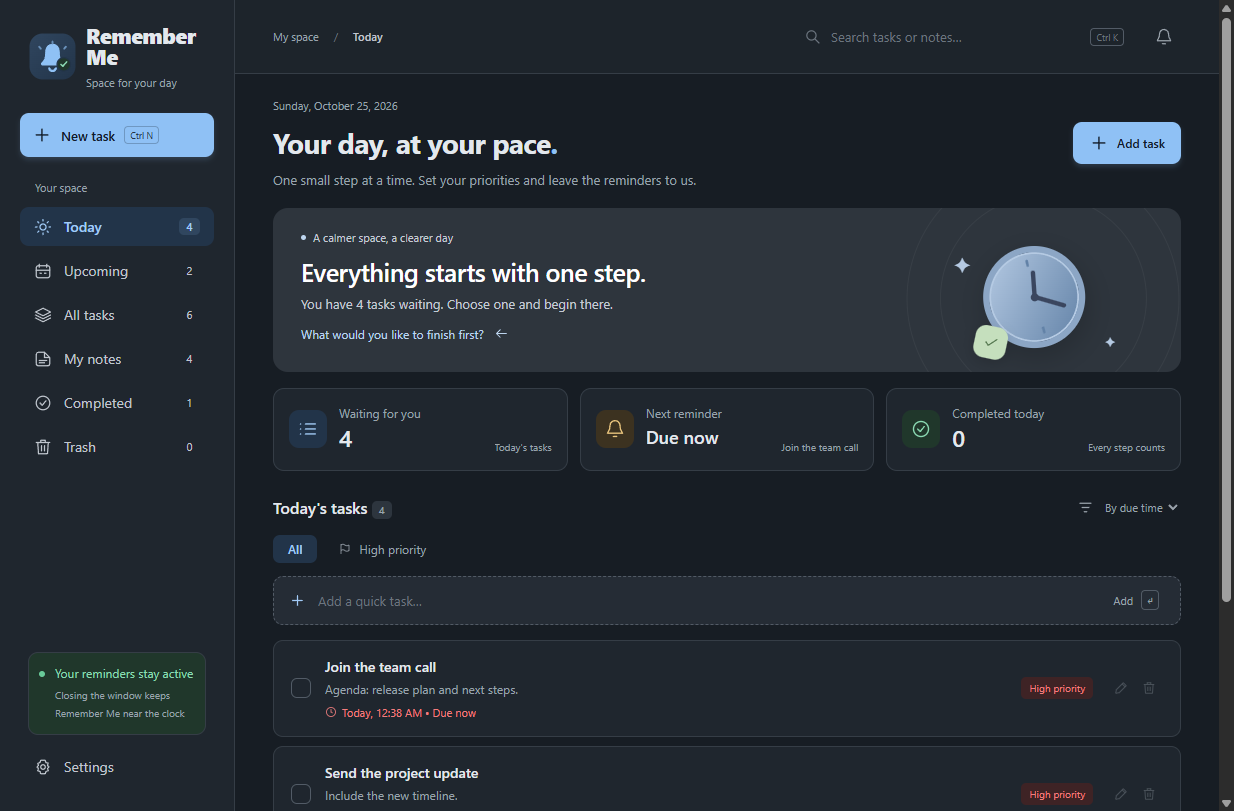
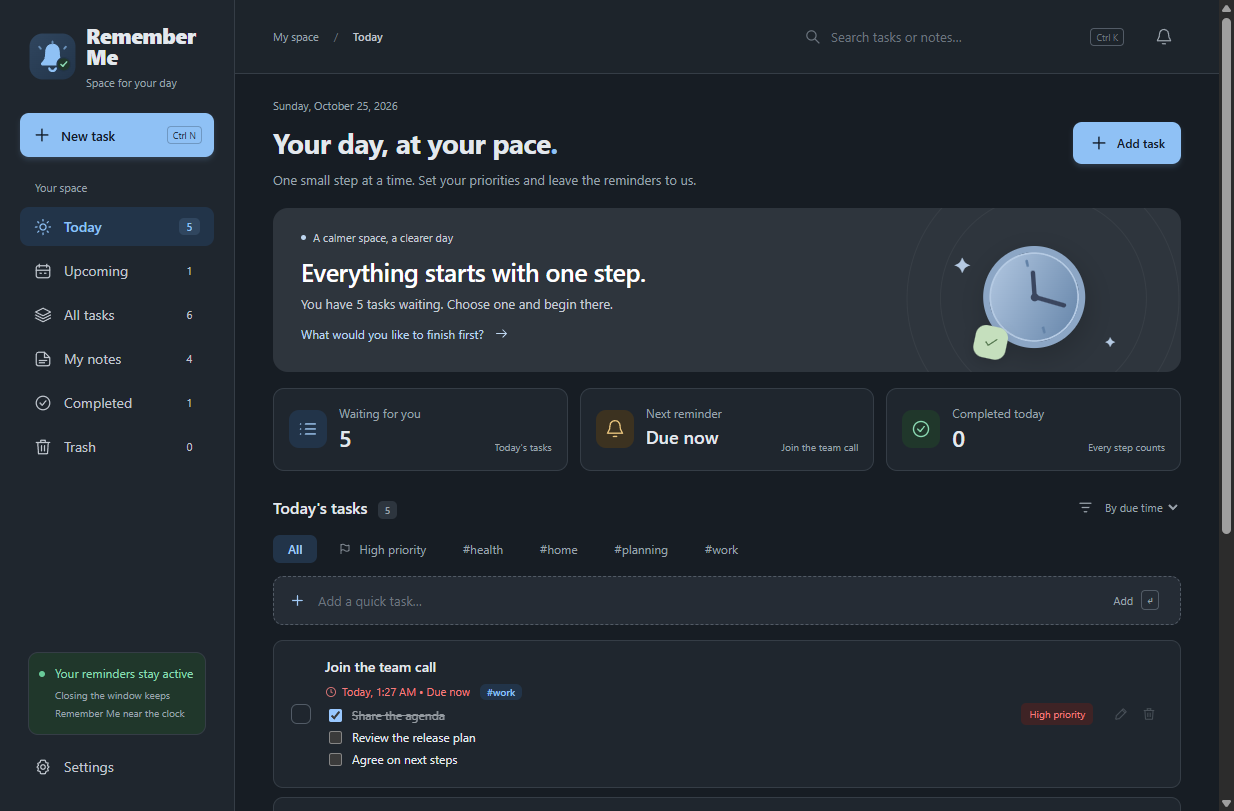
Finish the v1.5.0 release docs for QC round 2 (R39-R43)
- CHANGELOG: tags with tag filters, sorting by title and checklists
  (#36); the English default for new installs under Changed; the
  refactor (#37, #38), the release QA suite (#39) and the screenshots
  script under For contributors; links for #37-#39. No TODO lines are
  left; the 'Before release' note now only asks for the date.
- README: tags, sorting and checklists in Features and Usage; the
  early-notices, structure and handlers tests; the Verify the download
  example names the 1.5.0 installer and refs/tags/v1.5.0.
- RELEASING: update the attestation --source-ref too, and replace the
  generated release notes with docs/release-notes/v1.5.0.md.
- docs/release-notes/v1.5.0.md: highlights, install and verify notes,
  then the full entry and the code signing policy link.
- winget Description and package.json description: 12 languages.
- Issue templates: Remember Me, and 1.5.0 as the version placeholder.
- Screenshots retaken with the new alert (a queue of two), tag filters
  and a checklist; the sample data has tags and steps.

diff --git a/docs/release-notes/v1.5.0.md b/docs/release-notes/v1.5.0.md
@@ -1,0 +1,154 @@
+Everything since v1.4.0. Your tasks, notes, attachments and settings from v1.4.0 load unchanged, and the data folder moves from `%APPDATA%\Waqt` to `%APPDATA%\Remember Me` by itself the first time v1.5.0 starts.
+
+## Highlights
+
+- **A new name:** Waqt is now **Remember Me** (ذكرني in Arabic), and your data comes with it automatically. [#10]
+- **Automatic updates,** only if you allow them, and never a restart you didn't choose. [#10]
+- **More ways to repeat:** chosen weekdays, every few days, monthly and yearly, plus **Skip this time** and **Only this time**. [#7] [#8]
+- **Trash and Undo** for deleted items and for Done. [#7]
+- **Pause reminders** from the notification area. [#16]
+- **Dark mode and six color palettes,** plus notes as sticky notes, lined paper or cards in ten paper colors. [#7] [#35]
+- **Verified backups** with restore from Settings. [#5]
+- **12 interface languages,** with English as the new default and a full right-to-left layout in Arabic. [#36]
+- **A redesigned alert:** one reminder at a time with its status at a glance, smart snooze choices on the 1–6 keys, **Snooze all** and **Open task**. [#36]
+- **Tags and checklists:** tag tasks and filter the list by tag, sort it by title, and break a task into steps you tick off. [#36]
+
+## Installing
+
+v1.4.0 has no updater, so download `Remember-Me-Setup-1.5.0-x64.exe` below and install it by hand once. Your tasks, notes and settings stay as they are. From then on, Remember Me can update itself if you allow it.
+
+The installer is not code-signed yet, so Windows SmartScreen may show "Windows protected your PC". Check the download first, then choose **More info → Run anyway**:
+
+```powershell
+Get-FileHash .\Remember-Me-Setup-1.5.0-x64.exe -Algorithm SHA256   # compare with SHA256SUMS.txt
+gh attestation verify .\Remember-Me-Setup-1.5.0-x64.exe --repo sarmadiq9090-coder/Remember-Me --source-ref refs/tags/v1.5.0 --signer-workflow sarmadiq9090-coder/Remember-Me/.github/workflows/release.yml
+```
+
+## Everything in this release
+
+### Added
+
+- Repeats on chosen weekdays (with Sun–Thu and Mon–Fri shortcuts), every N days, monthly and yearly. Repeats on the 31st or on February 29 fall back to the last day of the month without drifting. [#7]
+- **Skip this time** on a repeating task moves it to its next occurrence without marking it done. [#8]
+- **Only this time** in the editor moves one occurrence of a repeating task and keeps the rest of the series. [#8]
+- A Trash view: deleted tasks and notes stay there for 30 days and can be restored. Deleting shows an **Undo** button, and only permanent deletes ask for confirmation. [#7]
+- **Undo** after Done, in the main window and in the alert. After the last reminder the alert stays for a few seconds so you can undo. [#7]
+- An optional early notice: a Windows notification from 5 minutes to 1 day before a reminder is due. [#7]
+- **Remind me again:** while an alert is unanswered, its sound repeats every 2, 5 or 15 minutes, up to 6 times. Off by default. [#8]
+- **Pause reminders** from the notification-area menu: for 1 hour, until tomorrow at 8:00, or until you resume. Reminders that come due meanwhile appear when the pause ends. [#16]
+- Appearance setting: Light, Dark or Same as Windows. [#7]
+- First day of the week setting (Saturday, Sunday or Monday), used by the weekday picker. Saturday is the default. [#7] [#9]
+- A warning in Settings, and a one-time banner, when Start with Windows is off but reminders are still to come. [#8]
+- The notification-area icon shows a dot while reminders are waiting. [#8]
+- Automatic updates from GitHub Releases, only after you allow them. Remember Me asks once, then checks about 30 seconds after starting and once a day, downloads in the background and installs when you choose **Restart now** or the next time you quit. It saves a safety copy of your data first. **Settings → Updates** has the switch and **Check now**. [#10]
+- **Restore from backup** in Settings: checks every file, shows what the backup holds, and saves a safety copy of your current data before replacing it. [#5]
+- Backups include a SHA-256 checksum for every file. [#5]
+- Keep only the latest 5, 10 or 30 automatic backups. All are kept by default, and backups you export yourself are never removed. [#5]
+- Settings shows the space attachments and backups use, and can clean up attachments that no task or note uses. [#5]
+- A warning when the Google Drive backup folder has been unavailable for more than a day. [#5]
+- Arabic-aware search that ignores diacritics and tatweel and matches spelling variants such as أ/إ/آ/ا, ة/ه and ى/ي. [#3]
+- **Settings → About** (also **About Remember Me** in the tray menu): the version, the developer, links to the source code, release notes, problem reports, privacy notice and license, **Check for updates**, **Open log folder**, and **Copy diagnostic info** with versions, language and theme only. [#22]
+- A local log in the data folder's `logs` folder, to attach to a problem report. It never records task or note titles, text or file names. [#15]
+- The installer shows the privacy notice and the license, in English or Arabic, and the uninstaller says your data folder is kept. [#14]
+- Release installers come with `SHA256SUMS.txt` and GitHub build provenance, so you can check a download. [#3]
+- The interface in 12 languages: English, العربية, Español, Français, Deutsch, Português (Brasil), Русский, 中文 (简体), 日本語, Türkçe, हिन्दी and Bahasa Indonesia, each listed in its own name. New installs start in English and existing installs keep Arabic. The tray menu, dialogs and error messages follow the chosen language, text missing in a language falls back to English, and the layout mirrors for right-to-left. The translations beyond English and Arabic are machine-assisted and were reviewed by native-level reviewers. [#36]
+- The redesigned alert window [#36]:
+  - chips for how long a reminder is overdue, its priority, its repeat and how many times it was snoozed, with the next occurrence under **Done** for repeating tasks;
+  - **Remind me again** with 10 min, 1 hour, This evening (until 17:00), Tomorrow 9 AM, Next week and **Pick a time…**, on the 1–6 keys; **S** skips a repeat;
+  - a *1 of N* counter with previous and next when several reminders wait, and **Snooze all** for an hour;
+  - **Open task** opens that task's editor in the main window;
+  - a gentle nudge after three snoozes of the same occurrence;
+  - screen-reader support (an alert dialog that announces each reminder) and keyboard use: Enter is Done, the arrows move through the queue, and Escape never dismisses it. Shortcuts act only after you interact with the alert, so typing in another window can't complete or snooze a reminder that just appeared.
+- Tags on tasks: up to ten per task, typed with commas and suggested from the tags you already use. They show on task cards, every tag in use becomes a filter above the list, and search finds them. [#36]
+- Sort tasks by title, besides due time, priority and newest first. [#36]
+- Checklists: up to 50 steps in a task, added in the editor (Enter adds the next one) and ticked straight from the task card. A repeating task starts each occurrence with its steps unticked, and the copy under *Completed* keeps its ticks. [#36]
+- **Settings → Appearance:** six color palettes (Lavender, Ocean, Forest, Sunset, Graphite and High contrast), each in light and dark, picked from preview cards and applied at once to the main window and the alert. [#35]
+- Notes come in ten paper colors, picked from swatches, and three styles: plain card, sticky note or lined paper. The editor shows a live preview. [#35]
+- The logo inside the app follows the chosen palette and light or dark mode (issue #18). [#35]
+
+### Changed
+
+- The app is called Remember Me everywhere: `Remember Me.exe`, the installer, its shortcuts and the Apps & features entry. [#10]
+- Data moves from `%APPDATA%\Waqt` to `%APPDATA%\Remember Me` automatically the first time the app starts. If the folder is locked it is copied and checked instead, and the original is kept as `Waqt.migrated-<date>`. The old data is never deleted. [#10]
+- Start with Windows is pointed at the renamed executable on startup. [#10]
+- New backup folders are named `RememberMe-backup-…` and `RememberMe-before-restore-…`. Backups named `Waqt-…` still restore and rotate. [#10]
+- Dates, times and numbers always use Western digits (0-9), in the Arabic interface too. [#9]
+- New installs start in English. Installs updated from v1.4.0 keep Arabic, and **Settings** switches between all 12 languages. [#36]
+- The alert sits next to the taskbar wherever it is (bottom, top, left or right), on scaled and secondary displays, and moves when displays change. [#7]
+- Sharper icons at every size, with a simpler bell at small sizes and dedicated notification-area images. [#22]
+- A smaller installer: it bundles only the app's own files and the Chromium language files of its interface languages. [#3]
+- A data file with an out-of-range value is corrected when it loads instead of being treated as damaged. [#2]
+- The executable's file properties name Sarmad as the publisher and include the copyright. [#23]
+
+### Fixed
+
+- Double-clicking Done or Snooze, or acting on the same reminder from both windows, no longer skips an occurrence or records it twice. [#6]
+- An editor left open no longer undoes a snooze or Done made in the alert. [#6]
+- A missing attachment file no longer stops a backup: the file is skipped, you're told which one, and the backup can still be restored. [#6]
+- Google Drive no longer receives an outdated backup that was waiting for the folder to come back. [#6]
+- Turning on or changing a repeat on a snoozed task starts the series at the time the editor shows. [#6]
+- The preview alert no longer waits behind a real reminder. [#6]
+- Saving retries when antivirus or the search indexer briefly locks the data file. [#2]
+- One failed reminder check no longer stops later reminders, and shutting down or signing out of Windows no longer waits on the app. [#2]
+- Text in the other language keeps its reading order, the English sidebar and statistics no longer overflow, and the main window comes back if it was closed unexpectedly. [#3]
+- A monthly or yearly repeat no longer drifts to an earlier day after you edit the task's text, use **Only this time**, or snooze it. [#23]
+- A daylight-saving change moves only the one occurrence that falls in the skipped hour, not every later one. [#23]
+- Automatic local and Google Drive backups keep running after the PC's clock moves backwards. [#23]
+- Restoring a backup keeps this PC's own settings (start with Windows, automatic updates, a pause) and refreshes the tray, alert position and theme. [#23]
+- An early notice no longer pops up right after you snooze, finish, skip or move a task into its lead time, and resuming after a pause brings no burst of notices. [#25]
+- Clicking an early notice, also later in Action Center, opens the app reliably. [#25]
+- While an update downloads, the windows refresh only every 10% instead of every second, and the alert is never redrawn for it. [#25]
+
+### Security
+
+- Every request from the app's windows is checked (a known action, valid data, the app's own page), and the alert window may use only its own small set of actions. [#2]
+- More risky file types open in File Explorer instead of running, including script hosts, installers, disk images, shortcuts and Office add-ins, and names like `report.pdf.exe` or ones hidden with right-to-left override characters. [#2]
+- Windows theme and visual-style files, update packages (`.msu`), Python zip apps (`.pyzw`), and Visual Studio and Office extensions are also shown in File Explorer instead of opened. [#23]
+- All browser permission requests are denied, embedded web views are blocked, and the content security policy is stricter. [#2]
+- Updates come only over HTTPS from this repository's GitHub Releases, are checked against the release's SHA-512, and are never pre-releases or downgrades. [#10]
+- About can open only six fixed GitHub addresses; the window can't ask for any other link. [#22]
+- The main process never runs code inside the app's pages, and a lint rule keeps it that way. [#16] [#17]
+- The installed `Remember Me.exe` can't be started as a Node.js interpreter or attached to a debugger, and refuses to run if its app files were changed (Electron fuses and asar integrity). [#25]
+
+### Removed
+
+- Nothing that v1.4.0 had. A Hijri date and a digit-style option tried during development were dropped before this release in favor of Western digits everywhere. [#9]
+
+### For contributors
+
+- [ARCHITECTURE.md](ARCHITECTURE.md), ESLint (`pnpm lint`) and a smoke test of the packaged app in CI. [#15]
+- A code signing policy, a release checklist ([RELEASING.md](RELEASING.md)) and winget manifests. [#11] [#12] [#13]
+- The release workflow builds with a read-only token and publishes, attests and verifies in a separate job, only for version tags; all GitHub Actions are pinned to commit SHAs. [#25]
+- The source is split by area: `src/main` (with one IPC handler file per area), `src/core`, `src/data` and `src/platform`, and `ui/main`, `ui/alert`, `ui/lib` and `ui/styles` for the pages. A structure test catches broken paths, and [ARCHITECTURE.md](ARCHITECTURE.md) maps every file. [#37] [#38]
+- A release QA suite, `pnpm test:release-qa`, drives a packaged test build through first start, every repeat type, the alert, notes, tags, checklists, all palettes, About, updates, attachments, backups and the translations. [#39]
+- `pnpm run screenshots` retakes the README pictures from made-up sample data in test mode.
+
+### Upgrading
+
+- v1.4.0 has no updater: install v1.5.0 by hand once. Later versions update automatically.
+
+See the [code signing policy](https://github.com/sarmadiq9090-coder/Remember-Me#code-signing-policy).
+
+[#2]: https://github.com/sarmadiq9090-coder/Remember-Me/pull/2
+[#3]: https://github.com/sarmadiq9090-coder/Remember-Me/pull/3
+[#5]: https://github.com/sarmadiq9090-coder/Remember-Me/pull/5
+[#6]: https://github.com/sarmadiq9090-coder/Remember-Me/pull/6
+[#7]: https://github.com/sarmadiq9090-coder/Remember-Me/pull/7
+[#8]: https://github.com/sarmadiq9090-coder/Remember-Me/pull/8
+[#9]: https://github.com/sarmadiq9090-coder/Remember-Me/pull/9
+[#10]: https://github.com/sarmadiq9090-coder/Remember-Me/pull/10
+[#11]: https://github.com/sarmadiq9090-coder/Remember-Me/pull/11
+[#12]: https://github.com/sarmadiq9090-coder/Remember-Me/pull/12
+[#13]: https://github.com/sarmadiq9090-coder/Remember-Me/pull/13
+[#14]: https://github.com/sarmadiq9090-coder/Remember-Me/pull/14
+[#15]: https://github.com/sarmadiq9090-coder/Remember-Me/pull/15
+[#16]: https://github.com/sarmadiq9090-coder/Remember-Me/pull/16
+[#17]: https://github.com/sarmadiq9090-coder/Remember-Me/pull/17
+[#22]: https://github.com/sarmadiq9090-coder/Remember-Me/pull/22
+[#23]: https://github.com/sarmadiq9090-coder/Remember-Me/pull/23
+[#25]: https://github.com/sarmadiq9090-coder/Remember-Me/pull/25
+[#35]: https://github.com/sarmadiq9090-coder/Remember-Me/pull/35
+[#36]: https://github.com/sarmadiq9090-coder/Remember-Me/pull/36
+[#37]: https://github.com/sarmadiq9090-coder/Remember-Me/pull/37
+[#38]: https://github.com/sarmadiq9090-coder/Remember-Me/pull/38
+[#39]: https://github.com/sarmadiq9090-coder/Remember-Me/pull/39

diff --git a/README.md b/README.md
@@ -16,7 +16,7 @@
 Remember Me is an open-source desktop app for 64-bit Windows. It runs without an account or a permanent internet connection, keeps your data on your own device, and shows each reminder in a sticky window above the taskbar until you mark it done or snooze it. Missed reminders don't get lost in the notification center.
 
 <p align="center">
-  <img src="docs/screenshots/main-en.png" width="68%" alt="Remember Me main window: today's tasks and the next reminder">
+  <img src="docs/screenshots/main-en.png" width="68%" alt="Remember Me main window: today's tasks with tag filters and a checklist, and the next reminder">
   <img src="docs/screenshots/alert-en.png" width="23%" alt="Sticky reminder above the taskbar: an overdue task with Done, snooze choices and a queue of two">
 </p>
 
@@ -43,7 +43,7 @@ Remember Me is an open-source desktop app for 64-bit Windows. It runs without an
 - **Safe file handling:** programs, scripts, installers and shortcuts are revealed in File Explorer instead of being launched.
 - **Smart search (Ctrl+K):** searches tasks and notes, and matches Arabic text regardless of diacritics and common spelling variants.
 - **12 interface languages:** English (the default), العربية (a full right-to-left interface), Español, Français, Deutsch, Português (Brasil), Русский, 中文 (简体), 日本語, Türkçe, हिन्दी and Bahasa Indonesia, switchable in Settings. Dates, numbers and plurals follow the chosen language, and mixed-language text keeps its reading order. The translations other than English and Arabic are machine-assisted; corrections from native speakers are very welcome (see [Translations](#translations)).
-- **Tags and checklists:** tag tasks and filter or sort by tag or title, and break a task into steps you tick off from the list; a repeating task starts each occurrence with its steps unticked.
+- **Tags and checklists:** tag tasks, filter the list by tag and find tags in search, sort tasks by due time, priority, newest or title, and break a task into steps you tick off from the list; a repeating task starts each occurrence with its steps unticked.
 - **Local-first data:** atomic saves, an automatic `.bak` copy and automatic recovery if the data file is damaged.
 - **Backups:** export a full backup with all attachments and checksums, restore one from Settings after it's verified, or copy daily backups into a synced Google Drive folder.
 - **Themes and display options:** light, dark or follow Windows, six color palettes (Lavender, Ocean, Forest, Sunset, Graphite and High contrast), and the first day of the week (Saturday by default). Dates and times always use Western digits (0-9), in Arabic too.
@@ -63,13 +63,13 @@ The installer is built by GitHub Actions from the published source. It is not co
 Compare the file's fingerprint with `SHA256SUMS.txt` from the same release:
 
 ```powershell
-Get-FileHash .\Remember-Me-Setup-1.4.0-x64.exe -Algorithm SHA256
+Get-FileHash .\Remember-Me-Setup-1.5.0-x64.exe -Algorithm SHA256
 ```
 
 With the GitHub CLI you can also confirm the file was built by this repository's release workflow from the release tag:
 
 ```powershell
-gh attestation verify .\Remember-Me-Setup-1.4.0-x64.exe --repo sarmadiq9090-coder/Remember-Me --source-ref refs/tags/v1.4.0 --signer-workflow sarmadiq9090-coder/Remember-Me/.github/workflows/release.yml
+gh attestation verify .\Remember-Me-Setup-1.5.0-x64.exe --repo sarmadiq9090-coder/Remember-Me --source-ref refs/tags/v1.5.0 --signer-workflow sarmadiq9090-coder/Remember-Me/.github/workflows/release.yml
 ```
 
 ### Upgrading from v1.4.0 or earlier
@@ -92,6 +92,8 @@ v1.4.0 can't update itself: install the next version from Releases once by hand,
 - **New task:** a title, notes, a priority and an optional reminder time.
 - **Today:** tasks without a date, today's tasks and anything overdue. **Upcoming:** tasks due after today.
 - **Multiple reminders:** shown one after another, with no task skipped.
+- **Tags:** in the task editor, type up to ten tags separated by commas; tags you already use are suggested. Every tag in use becomes a filter button above the list, and search finds tags too. The menu next to the list title sorts by due time, priority, newest first or title.
+- **Checklists:** add up to 50 steps in the task editor (Enter adds the next one) and tick them from the task card.
 - **Recurring tasks:** missed occurrences roll forward to the next future one when you complete the task. Snoozing never changes the original repeat time. The skip button on a repeating task moves it to the next occurrence without logging it as done. When you change a repeating task's time, tick **Only this time** to move just this occurrence.
 - **Done and delete:** both show an **Undo** button for a few seconds. Deleted items go to **Trash**, where you can restore them or delete them for good; they're removed automatically after 30 days.
 - **Attachments:** while editing a task or note, choose **Add files**. Files are copied into Remember Me's data folder, so moving or deleting the original doesn't break the attachment. Removing an attachment from one item doesn't affect other items.
@@ -188,6 +190,9 @@ Requires Node.js 22 or newer and pnpm 10. `pnpm run package` produces a portable
 - `tests/alert-format.test.js`: the alert's snooze presets, overdue age and due day, across daylight-saving changes.
 - `tests/theme.test.js`: every palette in light and dark meets WCAG contrast for text, buttons, focus rings and the logo; the stylesheets use only theme tokens; palette, note color and note style settings fall back safely.
 - `tests/pause.test.js`: pausing reminders from the tray, with a fake clock.
+- `tests/early-notices.test.js`: each "coming up" notice shows once per due time, none pile up after a pause, and clicked or old notices are let go.
+- `tests/structure.test.js`: every `require` and import, every script and stylesheet the pages load, and every fixed path the main process builds exists.
+- `tests/handlers.test.js`: every allowed IPC action has exactly one handler, and only actions that change nothing skip the rescan.
 - `tests/winget-manifest.test.js`: the winget manifests written from a release's `SHA256SUMS.txt`.
 - `tests/updates.test.js`: the update consent, background schedule, Check now, the ready banner, and installing after a safety backup.
 - `tests/data-folder.test.js` and `tests/login-item.test.js`: moving the old `Waqt` data folder, including locked and interrupted moves, and pointing start with Windows at the renamed executable.

diff --git a/CHANGELOG.md b/CHANGELOG.md
@@ -4,7 +4,7 @@
 
 Everything since v1.4.0. Your tasks, notes, attachments and settings from v1.4.0 load unchanged, and the data folder moves from `%APPDATA%\Waqt` to `%APPDATA%\Remember Me` by itself the first time v1.5.0 starts.
 
-> **Before release:** replace each **TODO** line below with the merged work and its PR, or delete it. PRs up to #35 are included. Then check this entry against `git log v1.4.0..main --oneline` (see RELEASING.md).
+> **Before release:** date this heading, check this entry against `git log v1.4.0..main --oneline` (see RELEASING.md), then delete this note. PRs up to #39 are included.
 
 ### Highlights
 
@@ -17,6 +17,7 @@ Everything since v1.4.0. Your tasks, notes, attachments and settings from v1.4.0
 - **Verified backups** with restore from Settings. [#5]
 - **12 interface languages,** with English as the new default and a full right-to-left layout in Arabic. [#36]
 - **A redesigned alert:** one reminder at a time with its status at a glance, smart snooze choices on the 1–6 keys, **Snooze all** and **Open task**. [#36]
+- **Tags and checklists:** tag tasks and filter the list by tag, sort it by title, and break a task into steps you tick off. [#36]
 
 ### Added
 
@@ -51,6 +52,9 @@ Everything since v1.4.0. Your tasks, notes, attachments and settings from v1.4.0
   - **Open task** opens that task's editor in the main window;
   - a gentle nudge after three snoozes of the same occurrence;
   - screen-reader support (an alert dialog that announces each reminder) and keyboard use: Enter is Done, the arrows move through the queue, and Escape never dismisses it. Shortcuts act only after you interact with the alert, so typing in another window can't complete or snooze a reminder that just appeared.
+- Tags on tasks: up to ten per task, typed with commas and suggested from the tags you already use. They show on task cards, every tag in use becomes a filter above the list, and search finds them. [#36]
+- Sort tasks by title, besides due time, priority and newest first. [#36]
+- Checklists: up to 50 steps in a task, added in the editor (Enter adds the next one) and ticked straight from the task card. A repeating task starts each occurrence with its steps unticked, and the copy under *Completed* keeps its ticks. [#36]
 - **Settings → Appearance:** six color palettes (Lavender, Ocean, Forest, Sunset, Graphite and High contrast), each in light and dark, picked from preview cards and applied at once to the main window and the alert. [#35]
 - Notes come in ten paper colors, picked from swatches, and three styles: plain card, sticky note or lined paper. The editor shows a live preview. [#35]
 - The logo inside the app follows the chosen palette and light or dark mode (issue #18). [#35]
@@ -62,6 +66,7 @@ Everything since v1.4.0. Your tasks, notes, attachments and settings from v1.4.0
 - Start with Windows is pointed at the renamed executable on startup. [#10]
 - New backup folders are named `RememberMe-backup-…` and `RememberMe-before-restore-…`. Backups named `Waqt-…` still restore and rotate. [#10]
 - Dates, times and numbers always use Western digits (0-9), in the Arabic interface too. [#9]
+- New installs start in English. Installs updated from v1.4.0 keep Arabic, and **Settings** switches between all 12 languages. [#36]
 - The alert sits next to the taskbar wherever it is (bottom, top, left or right), on scaled and secondary displays, and moves when displays change. [#7]
 - Sharper icons at every size, with a simpler bell at small sizes and dedicated notification-area images. [#22]
 - A smaller installer: it bundles only the app's own files and the Chromium language files of its interface languages. [#3]
@@ -107,6 +112,9 @@ Everything since v1.4.0. Your tasks, notes, attachments and settings from v1.4.0
 - [ARCHITECTURE.md](ARCHITECTURE.md), ESLint (`pnpm lint`) and a smoke test of the packaged app in CI. [#15]
 - A code signing policy, a release checklist ([RELEASING.md](RELEASING.md)) and winget manifests. [#11] [#12] [#13]
 - The release workflow builds with a read-only token and publishes, attests and verifies in a separate job, only for version tags; all GitHub Actions are pinned to commit SHAs. [#25]
+- The source is split by area: `src/main` (with one IPC handler file per area), `src/core`, `src/data` and `src/platform`, and `ui/main`, `ui/alert`, `ui/lib` and `ui/styles` for the pages. A structure test catches broken paths, and [ARCHITECTURE.md](ARCHITECTURE.md) maps every file. [#37] [#38]
+- A release QA suite, `pnpm test:release-qa`, drives a packaged test build through first start, every repeat type, the alert, notes, tags, checklists, all palettes, About, updates, attachments, backups and the translations. [#39]
+- `pnpm run screenshots` retakes the README pictures from made-up sample data in test mode.
 
 ### Upgrading
 
@@ -132,3 +140,6 @@ Everything since v1.4.0. Your tasks, notes, attachments and settings from v1.4.0
 [#25]: https://github.com/sarmadiq9090-coder/Remember-Me/pull/25
 [#35]: https://github.com/sarmadiq9090-coder/Remember-Me/pull/35
 [#36]: https://github.com/sarmadiq9090-coder/Remember-Me/pull/36
+[#37]: https://github.com/sarmadiq9090-coder/Remember-Me/pull/37
+[#38]: https://github.com/sarmadiq9090-coder/Remember-Me/pull/38
+[#39]: https://github.com/sarmadiq9090-coder/Remember-Me/pull/39

diff --git a/RELEASING.md b/RELEASING.md
@@ -11,7 +11,7 @@ Releases are built only by `.github/workflows/release.yml` on GitHub Actions, ne
 - [ ] In `CHANGELOG.md`, replace `## v1.5.0 (unreleased)` with `## v1.5.0 (YYYY-MM-DD)` and check the entries match what's merged.
 - [ ] Check the entry against `git log v1.4.0..main --oneline` and the merged pull requests: every user-visible change since the last release needs a line with its PR. Replace or delete every **TODO** line and the 'Before release' note.
 - [ ] If the interface changed, run `pnpm run screenshots` and commit the new `docs/screenshots` (sample data only).
-- [ ] In the README's "Verify the download" section, change the example file name to `Remember-Me-Setup-1.5.0-x64.exe`.
+- [ ] In the README's "Verify the download" section, change the example file name to `Remember-Me-Setup-1.5.0-x64.exe` in both commands, and the attestation's `--source-ref` to `refs/tags/v1.5.0`.
 - [ ] Merge these changes through a pull request, and wait for **Tests** to pass on `main`.
 
 ## 2. Dry run (recommended)
@@ -31,8 +31,8 @@ git push origin v1.5.0
 
 - [ ] Watch **Actions → Release**. The `build` job stops if the tag doesn't match `package.json`, if any test fails, or if `latest.yml` or the `.blockmap` is missing. The `publish` job then checks the checksums, attests the installer and creates the release.
 - [ ] When it finishes, open the new release and edit its notes if needed:
-  - Paste the CHANGELOG entry, and mention that v1.4.0 users install this version by hand once.
-  - Link the [code signing policy](README.md#code-signing-policy): `See the [code signing policy](https://github.com/sarmadiq9090-coder/Remember-Me#code-signing-policy).` SignPath requires it on every release page.
+  - Replace the generated notes with `docs/release-notes/v1.5.0.md`: `gh release edit v1.5.0 --notes-file docs/release-notes/v1.5.0.md`. It has the highlights, the full CHANGELOG entry, the line saying v1.4.0 users install this version by hand once, and the code signing policy link.
+  - For a later release without such a file: paste the CHANGELOG entry and link the [code signing policy](README.md#code-signing-policy): `See the [code signing policy](https://github.com/sarmadiq9090-coder/Remember-Me#code-signing-policy).` SignPath requires it on every release page.
 
 ## 4. Verify the release
 
